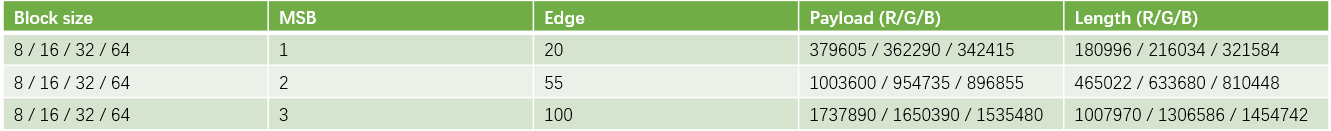
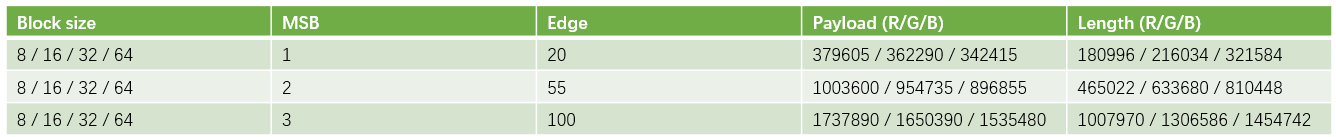
changing image presentation type

diff --git a/README.md b/README.md
@@ -43,7 +43,7 @@
 
         - framework
 
-          ![method0-framework](photo\method0-framework.png)
+          <img src="photo\method0-framework.png" alt="method0-framework" style="zoom:100%;" />
 
         - application
 
@@ -144,11 +144,11 @@
           
             3: the adjustment area
           
-            ![distribution2-1](photo\distribution2-1.png)
+            <img src="photo\distribution2-1.png" alt="distribution2-1" style="zoom:100%;" />
           
           - distribution 2
           
-            ![distribution2-2](photo\distribution2-2.png)
+            <img src="photo\distribution2-2.png" alt="distribution2-2" style="zoom:100%;" />
           
           - tip
           
@@ -164,7 +164,7 @@
           
             - parametric: blocksize, MSB, edge=NUM, type=0, method=2
           
-              ![2-1-para](photo\2-1-para.png)
+              <img src="photo\2-1-para.png" alt="2-1-para" style="zoom:100%;" />
             
             - visual result
             
@@ -178,7 +178,7 @@
           
             - parametric: blocksize, MSB, NUM, edge=0, type=1, method=2
           
-              ![2-2-para](photo\2-2-para.png)
+              <img src="photo\2-2-para.png" alt="2-2-para" style="zoom:100%;" />
             
             - visual result
             
@@ -207,7 +207,7 @@
         
         - framework
         
-          ![method3-framework](photo\method3-framework.png)
+          <img src="photo\method3-framework.png" alt="method3-framework" style="zoom:100%;" />
         
         - application
         
